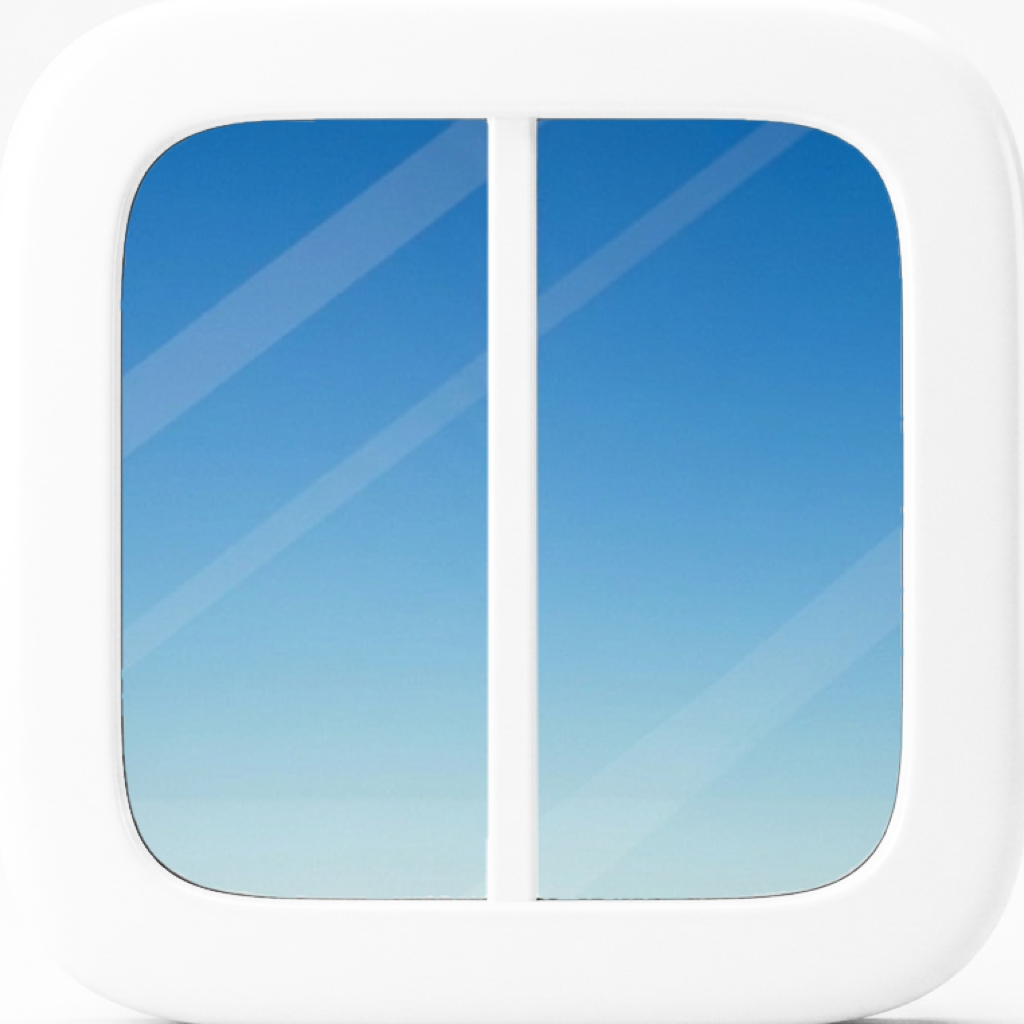
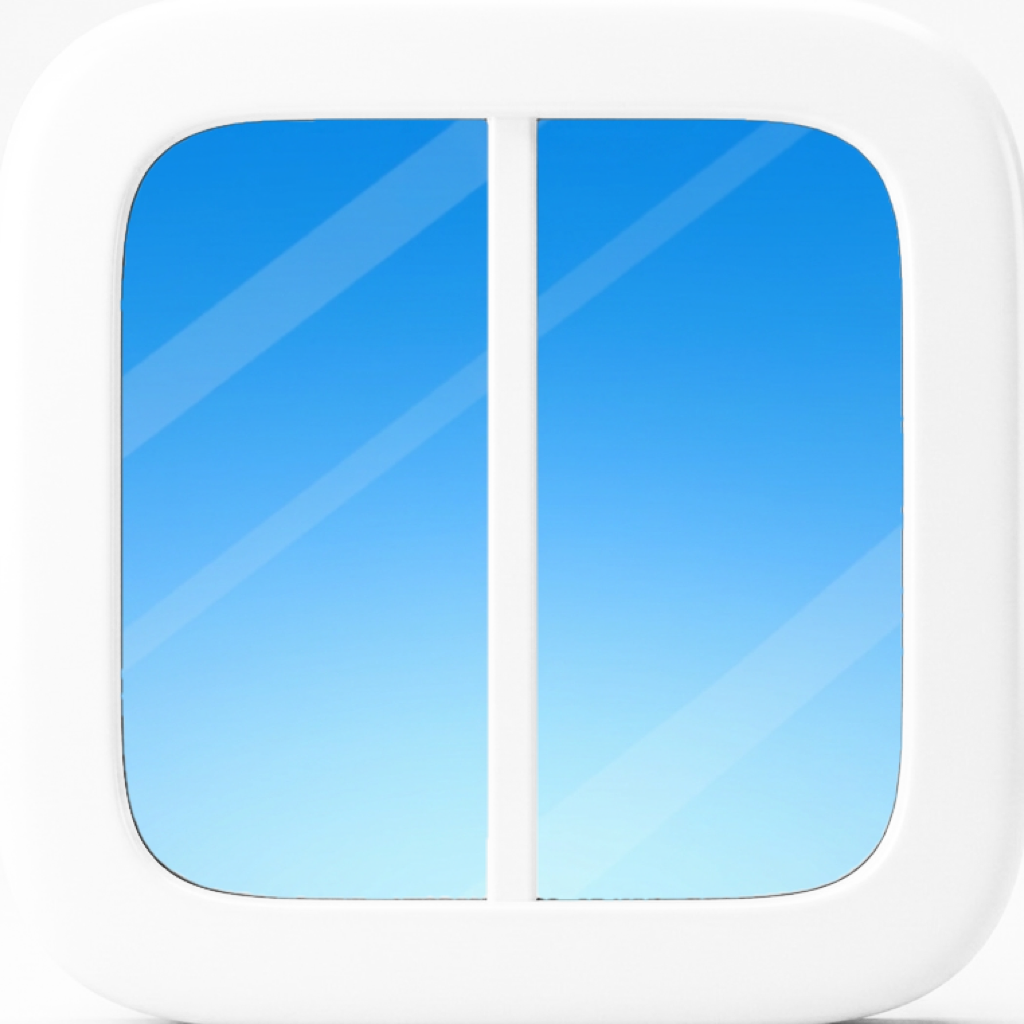
Give seven more skies the cartoon style
The user liked Clouds' cartoon clouds and asked for every sky in that
style, approving each one from a side-by-side comparison (Paper: 01.15).
Day, Morning, Dusk, Fuchsia, Twilight, Afterglow, and Moonrise were
redone in Magnific from their own renders, with their colours and their
elements in the same places. Day's render keeps its own frame, which
every icon takes, and only its glass is the new sky, so the other icons'
frames stay as they were. Night and Sunset came out too loud ("less is
more"), so they stay realistic until the user picks a quieter option
(Paper: 01.16). Paper's 127 icon images on 18 boards show the new skies,
and a fresh copy of the packaged app draws AppIconDay with no pixel apart.

diff --git a/docs/adr/0089-app-icon-is-a-window-the-user-picks-its-sky.md b/docs/adr/0089-app-icon-is-a-window-the-user-picks-its-sky.md
@@ -1,6 +1,6 @@
 # Pane's icon is a window, and the user picks its sky
 
-Pane's icon is a real window: a white enamel frame, two panes, and a mullion, with the sky behind the glass. It was rendered in Magnific with ten skies, and the user kept all ten and asked that Pane's users pick one (Paper: 01.2). The ten are Day, a clear blue sky with no sun, Clouds, Morning, Dusk, Fuchsia, Sunset, Twilight, Afterglow, Night, and Moonrise. Fuchsia carries the colours of a drawn direction the user liked (01.5, P2), which its render took as reference. Clouds' clouds are cartoon ones, at the user's request (2026-10-29): its render was redone in Magnific with the earlier one as reference, so the sky, the glass, and the clouds' places stay, and the clouds became round, puffy shapes with soft light and volume. The user also asked that the icon follow light and dark. Settings › Appearance › App icon offers Automatic, the default, then the ten. Automatic shows Day while the app's appearance is light and Night while it is dark: the theme sets that appearance (ADR 0001), and under system the Mac does.
+Pane's icon is a real window: a white enamel frame, two panes, and a mullion, with the sky behind the glass. It was rendered in Magnific with ten skies, and the user kept all ten and asked that Pane's users pick one (Paper: 01.2). The ten are Day, a clear blue sky with no sun, Clouds, Morning, Dusk, Fuchsia, Sunset, Twilight, Afterglow, Night, and Moonrise. Fuchsia carries the colours of a drawn direction the user liked (01.5, P2), which its render took as reference. Clouds' clouds are cartoon ones, at the user's request (2026-10-29): its render was redone in Magnific with the earlier one as reference, so the sky, the glass, and the clouds' places stay, and the clouds became round, puffy shapes with soft light and volume. The user liked it and asked for every sky in that style. Day, Morning, Dusk, Fuchsia, Twilight, Afterglow, and Moonrise were redone the same way and approved one by one (Paper: 01.15). Each keeps its colours and its elements in the same places. Day's render keeps its own frame, since every icon takes its frame from it, and only its glass is the new sky. Night and Sunset came out too loud, the user's words being "less is more". They stay realistic until the user picks one of the quieter options (Paper: 01.16). The user also asked that the icon follow light and dark. Settings › Appearance › App icon offers Automatic, the default, then the ten. Automatic shows Day while the app's appearance is light and Night while it is dark: the theme sets that appearance (ADR 0001), and under system the Mac does.
 
 The row shows the chosen icon alone. A click opens a dialog over the window, as Quit Pane? is drawn (Paper: 06.2). It holds every sky as a tile, six a row: the icon at 56 points over its name, the chosen one ringed as the profile sheet's swatch is. The ring sits 2 to 4 points out from the icon's body, on the system's corner (continuous, 0.257 of the side, measured on macOS 27). A click applies a sky at once and the Dock follows, so the dialog stays open to compare. Done, Return, Esc, or a click outside closes it (KeyRouting). Choosing is instant, and hover fades (DESIGN.md).
 
